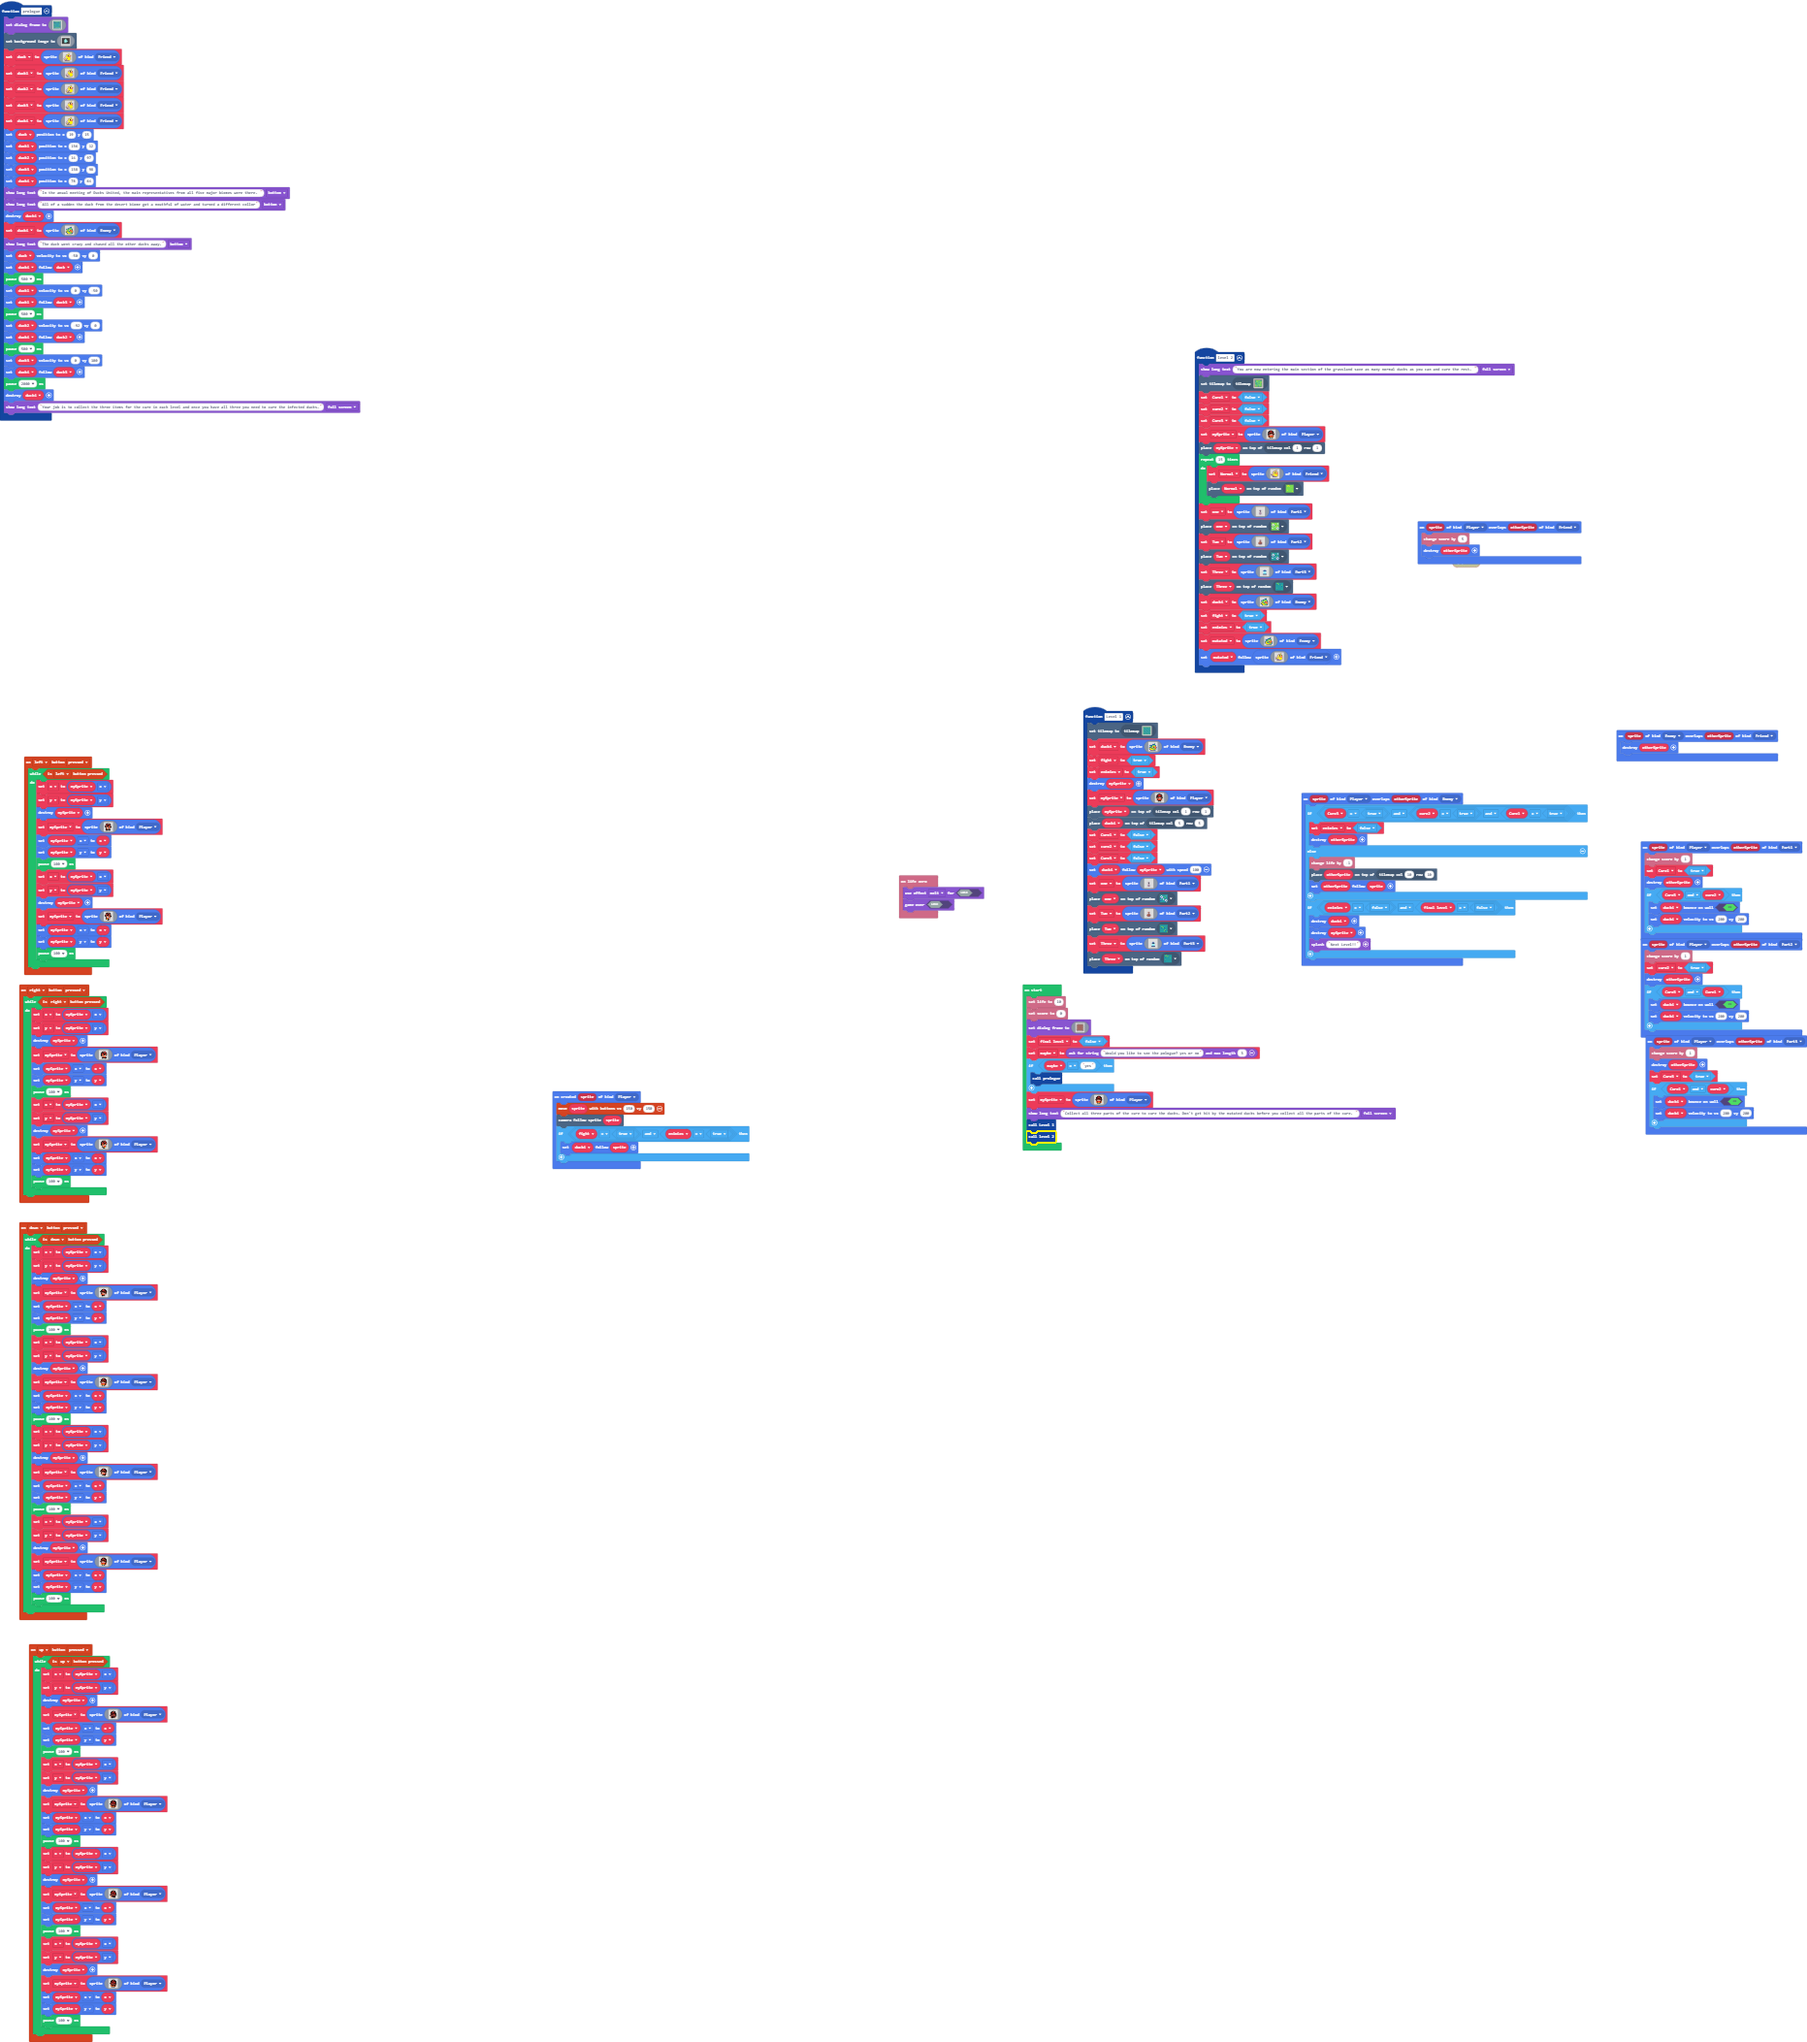
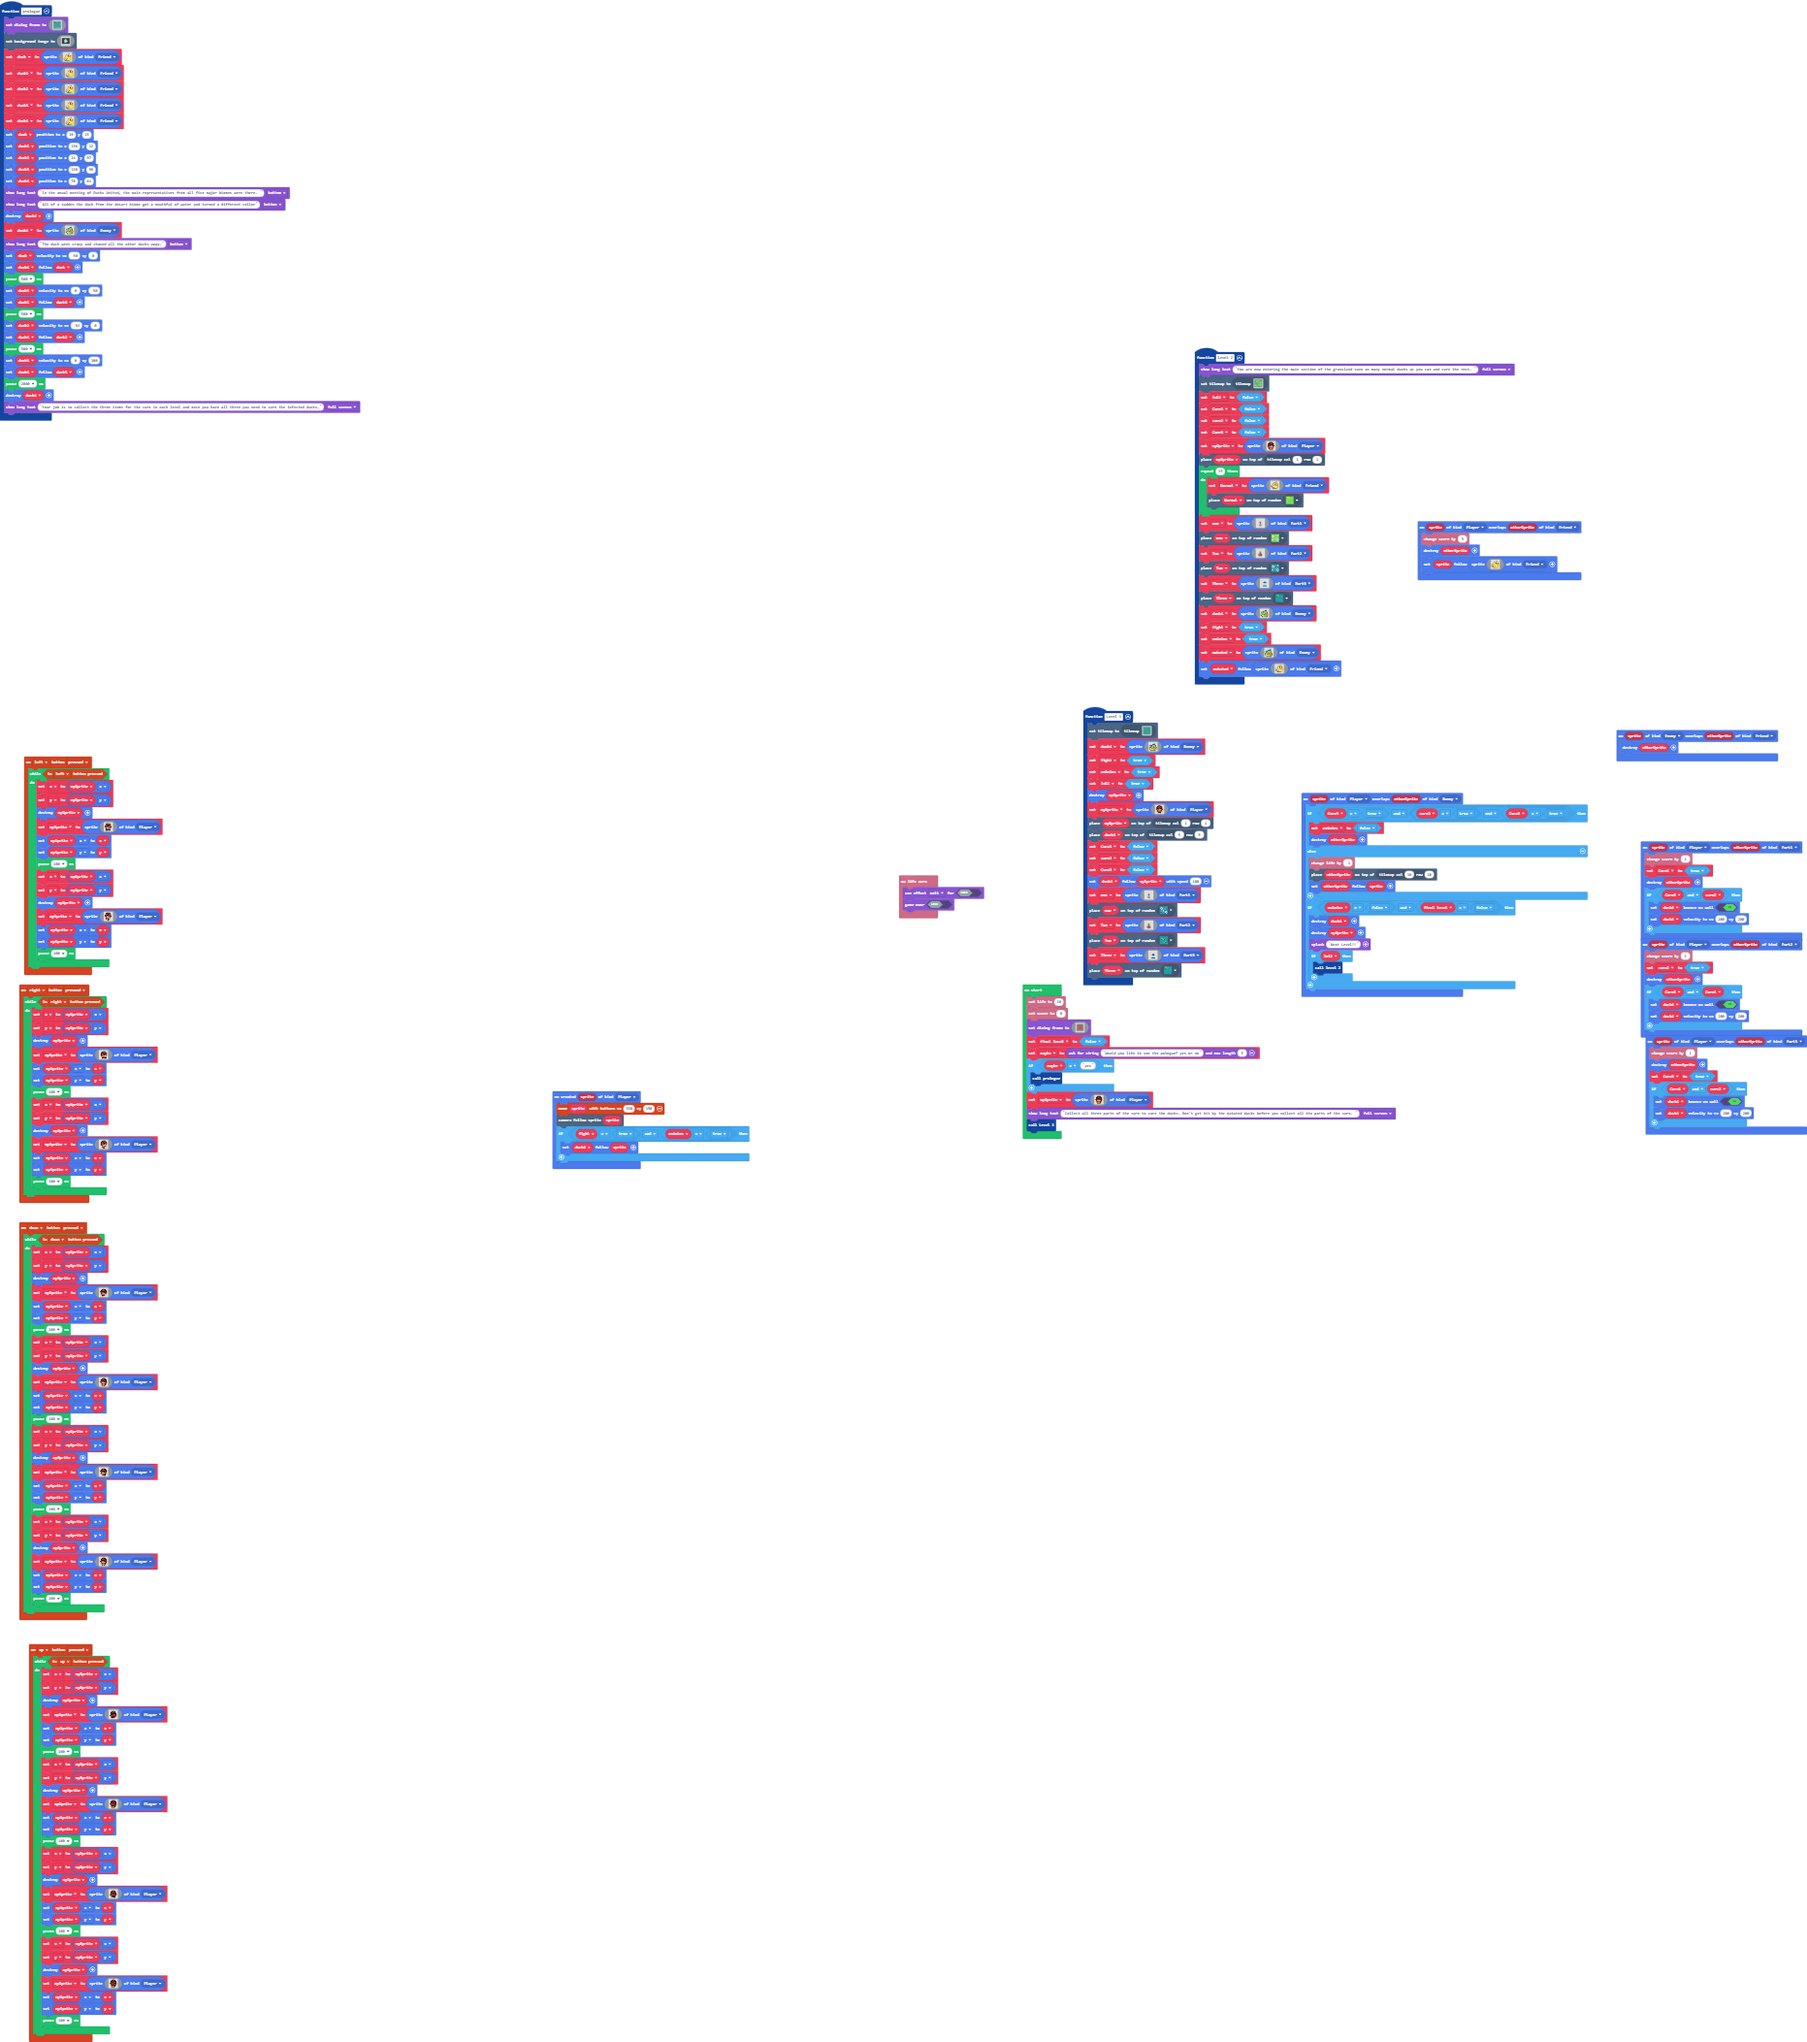
Update main.blocks, main.ts

diff --git a/main.ts b/main.ts
@@ -159,6 +159,7 @@ controller.left.onEvent(ControllerButtonEvent.Pressed, function () {
 function level_2 () {
     game.showLongText("You are now entering the main section of the grassland save as many normal ducks as you can and cure the rest. ", DialogLayout.Full)
     tiles.setCurrentTilemap(tilemap`level8`)
+    lvl1 = false
     Cure1 = false
     cure2 = false
     Cure3 = false
@@ -340,6 +341,24 @@ sprites.onOverlap(SpriteKind.Player, SpriteKind.Part2, function (sprite, otherSp
 sprites.onOverlap(SpriteKind.Player, SpriteKind.Friend, function (sprite, otherSprite) {
     info.changeScoreBy(5)
     sprites.destroy(otherSprite)
+    sprite.follow(sprites.create(img`
+        . . . . . . . . . . b 5 b . . . 
+        . . . . . . . . . b 5 b . . . . 
+        . . . . . . b b b b b b . . . . 
+        . . . . . b b 5 5 5 5 5 b . . . 
+        . . . . b b 5 d 1 f 5 5 d f . . 
+        . . . . b 5 5 1 f f 5 d 4 c . . 
+        . . . . b 5 5 d f b d d 4 4 . . 
+        . b b b d 5 5 5 5 5 4 4 4 4 4 b 
+        b d d d b b d 5 5 4 4 4 4 4 b . 
+        b b d 5 5 5 b 5 5 5 5 5 5 b . . 
+        c d c 5 5 5 5 d 5 5 5 5 5 5 b . 
+        c b d c d 5 5 b 5 5 5 5 5 5 b . 
+        . c d d c c b d 5 5 5 5 5 d b . 
+        . . c b d d d d d 5 5 5 b b . . 
+        . . . c c c c c c c c b b . . . 
+        . . . . . . . . . . . . . . . . 
+        `, SpriteKind.Friend))
 })
 function Level_1 () {
     tiles.setCurrentTilemap(tilemap`level4`)
@@ -363,6 +382,7 @@ function Level_1 () {
         `, SpriteKind.Enemy)
     fight = true
     enimies = true
+    lvl1 = true
     sprites.destroy(mySprite)
     mySprite = sprites.create(img`
         . . . . . . f f f f . . . . . . 
@@ -945,6 +965,9 @@ sprites.onOverlap(SpriteKind.Player, SpriteKind.Enemy, function (sprite, otherSp
         sprites.destroy(duck4)
         sprites.destroy(mySprite)
         game.splash("Next Level!!")
+        if (lvl1) {
+            level_2()
+        }
     }
 })
 let duck3: Sprite = null
@@ -962,6 +985,7 @@ let Normal: Sprite = null
 let Cure3 = false
 let cure2 = false
 let Cure1 = false
+let lvl1 = false
 let y = 0
 let x = 0
 let mySprite: Sprite = null
@@ -1061,4 +1085,3 @@ mySprite = sprites.create(img`
     `, SpriteKind.Player)
 game.showLongText("Collect all three parts of the cure to cure the ducks. Don't get hit by the mutated ducks before you collect all the parts of the cure. ", DialogLayout.Full)
 Level_1()
-level_2()
